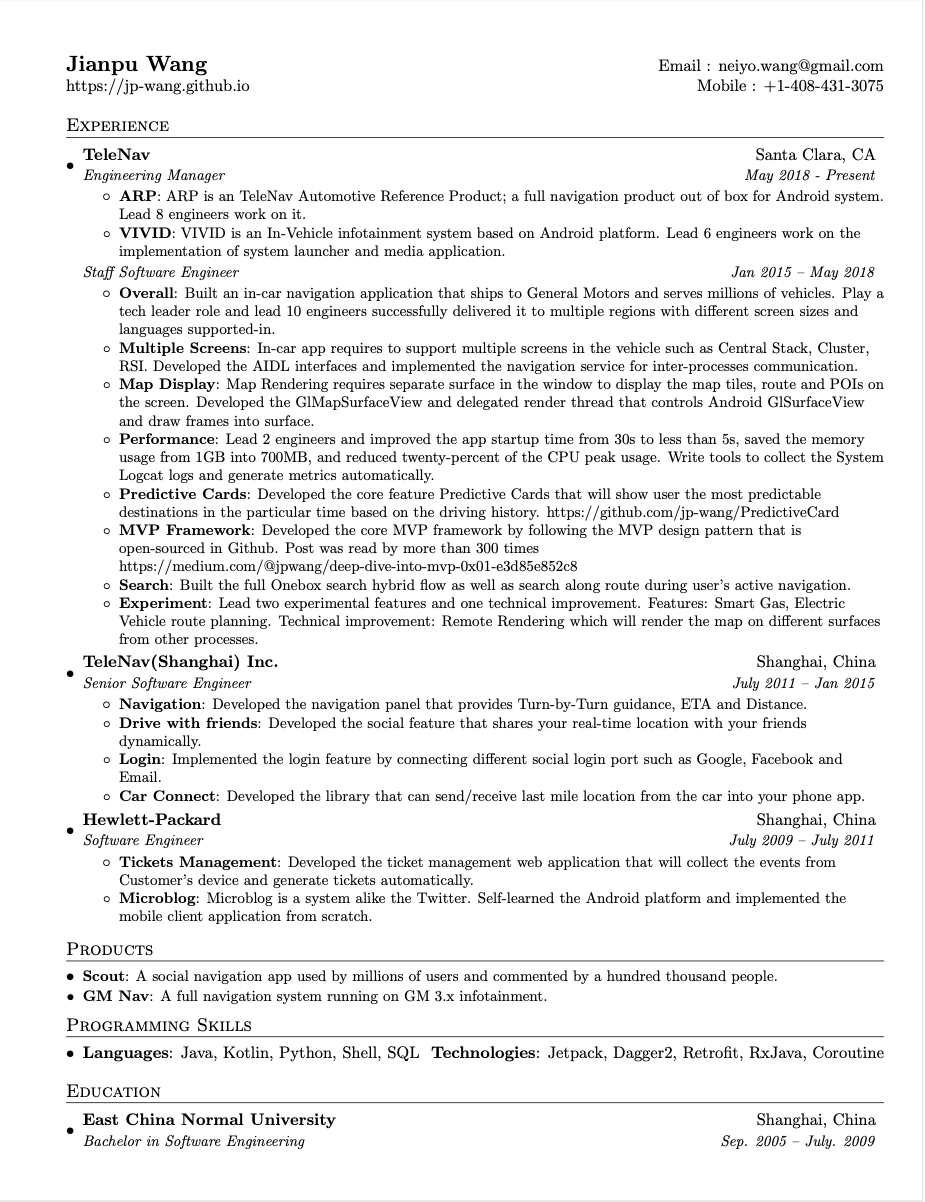
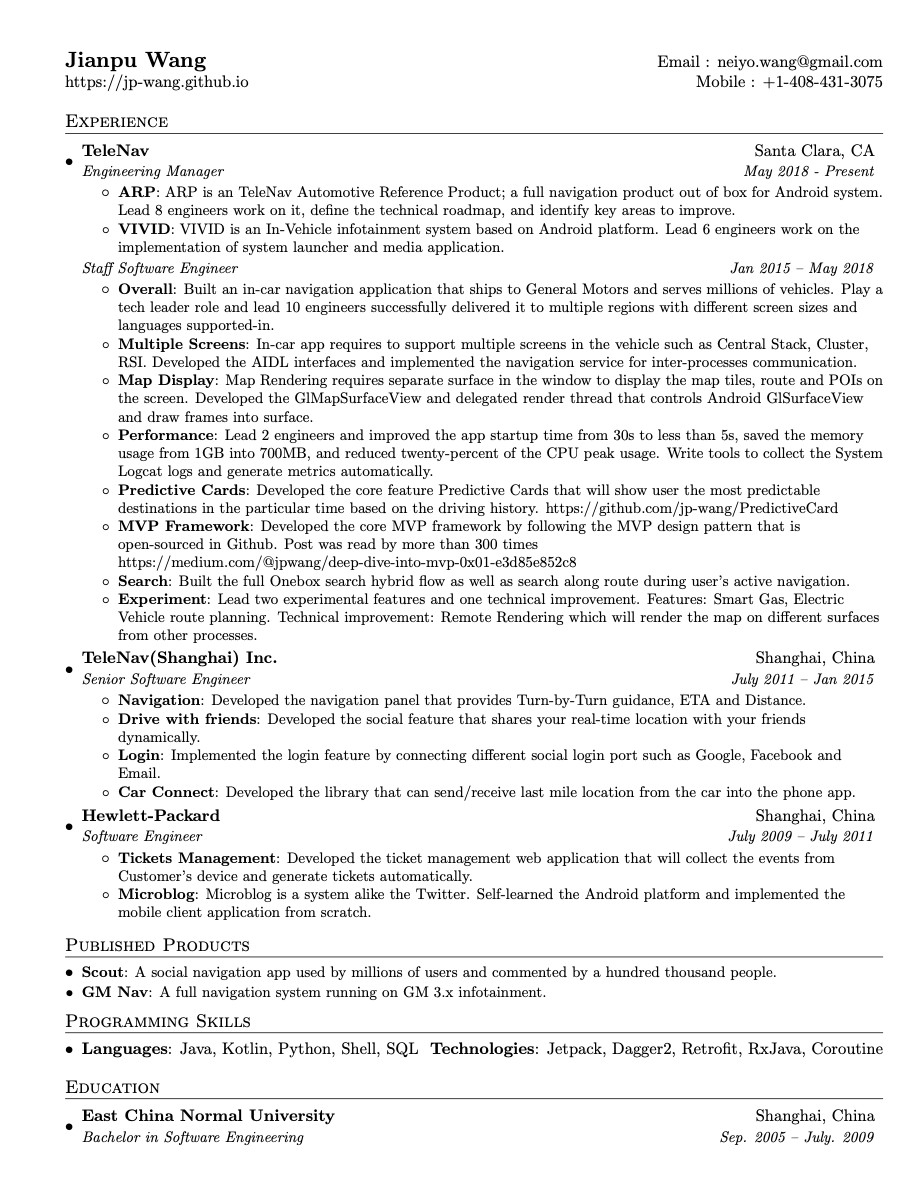
Update resume

Changed region(s): [[0.0608, 0.0309, 0.9729, 0.959]]

diff --git a/Jianpu_Wang_Resume.tex b/Jianpu_Wang_Resume.tex
@@ -94,7 +94,7 @@
       {Engineering Manager}{May 2018 - Present}
       \resumeItemListStart
         \resumeItem{ARP}
-          {ARP is an TeleNav Automotive Reference Product; a full navigation product out of box for Android system. Lead 8 engineers work on it.}
+          {ARP is an TeleNav Automotive Reference Product; a full navigation product out of box for Android system. Lead 8 engineers work on it, define the technical roadmap, and identify key areas to improve.}
         \resumeItem{VIVID}
           {VIVID is an In-Vehicle infotainment system based on Android platform. Lead 6 engineers work on the implementation of system launcher and media application.}
       \resumeItemListEnd
@@ -132,7 +132,7 @@
         \resumeItem{Login}
           {Implemented the login feature by connecting different social login port such as Google, Facebook and Email.}
         \resumeItem{Car Connect}
-          {Developed the library that can send/receive last mile location from the car into your phone app.}
+          {Developed the library that can send/receive last mile location from the car into the phone app.}
       \resumeItemListEnd
 
     \resumeSubheading
@@ -149,7 +149,7 @@
 
 
 %-----------PROJECTS-----------------
-\section{Products}
+\section{Published Products}
   \resumeSubHeadingListStart
     \resumeSubItem{\href{https://play.google.com/store/apps/details?id=com.telenav.app.android.scout_us}{Scout}}
       {A social navigation app used by millions of users and commented by a hundred thousand people.}
